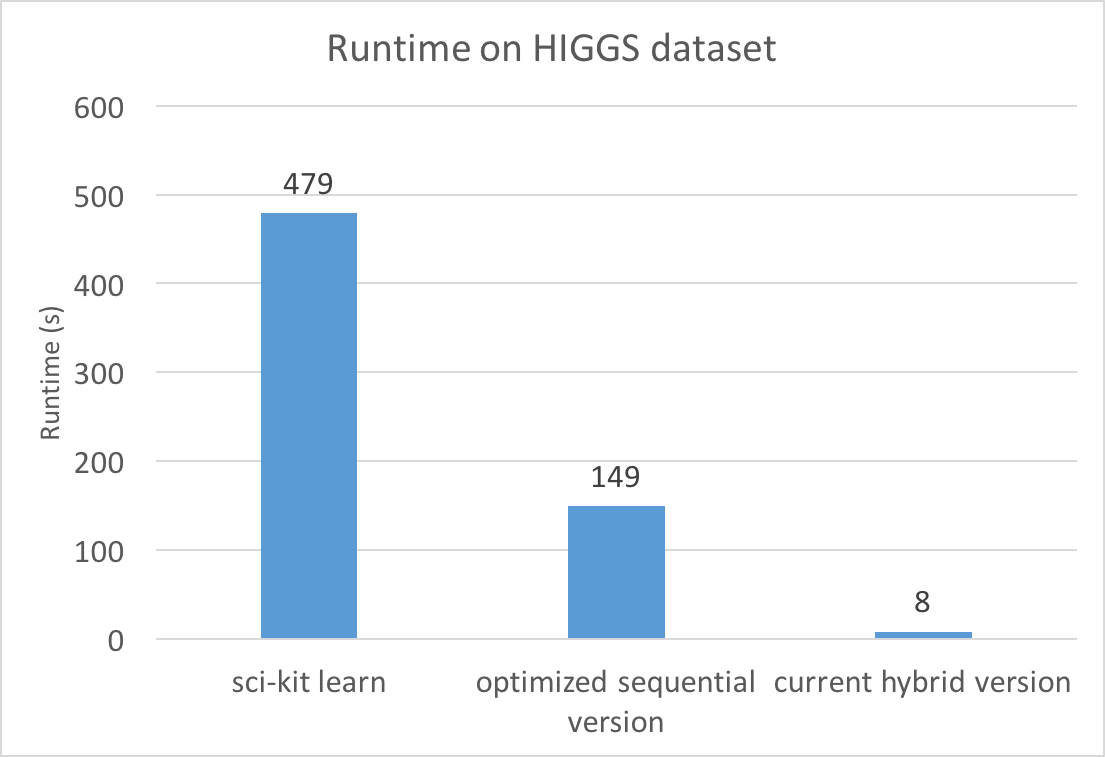
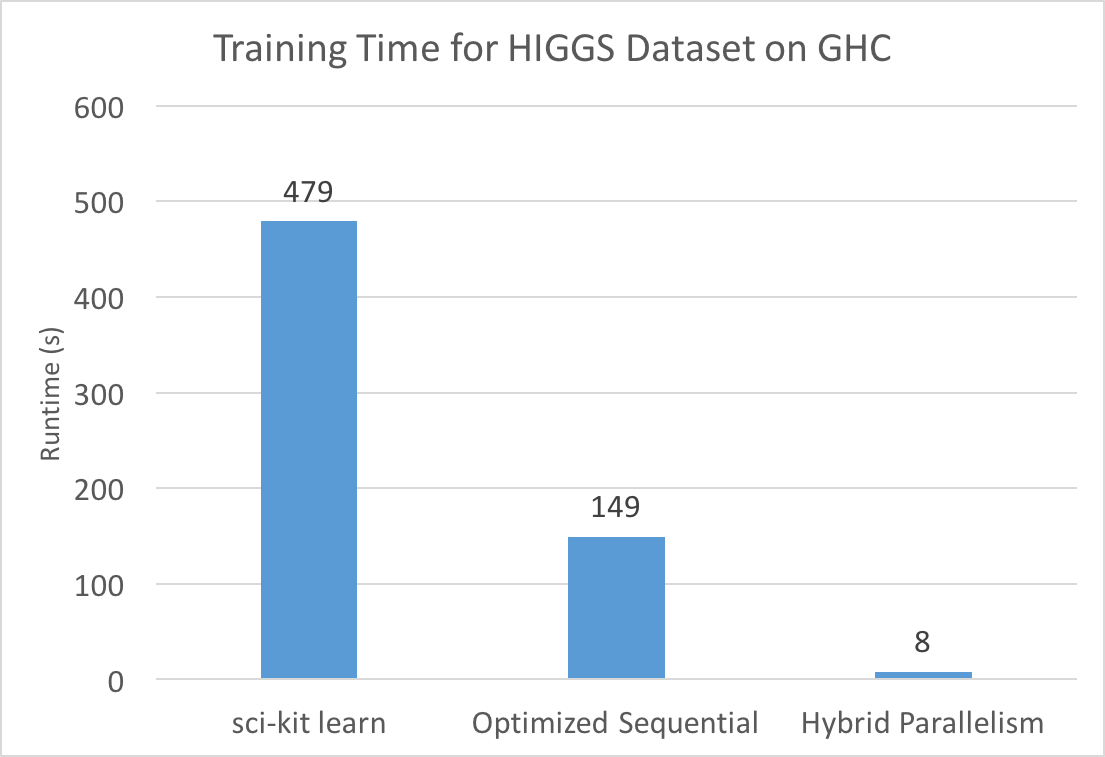
modify graphs a bit

diff --git a/index.md b/index.md
@@ -132,7 +132,7 @@ above two algorithms and the popular decision tree learning framework sci-kit le
 We benchmarked on the [Microsoft Learn to
 Rank](https://www.microsoft.com/en-us/research/project/mslr/) dataset, which contains 2
 million (query,url) pairs, each with 136 features and a label denoting
-the relevance of the query to the url.
+the relevance of the query to the url. Experiments were performed on GHC.
 
 
 ![Sequential](assets/runtime-sequential.png)
@@ -162,7 +162,8 @@ computationally expensive areas that might be opportunities for parallelism:
 We used OpenMP to parallelize these two areas across features. Since building
 histograms and constructing child histograms requires scanning over
 the distributions of every histogram bin of every feature, this leads to a
-roughly balanced workload. The speedup graphs are shown below.
+roughly balanced workload. The speedup graphs are shown below (experiments on
+GHC).
 
 
 ![OpenMP](assets/runtime-openmp.png)
